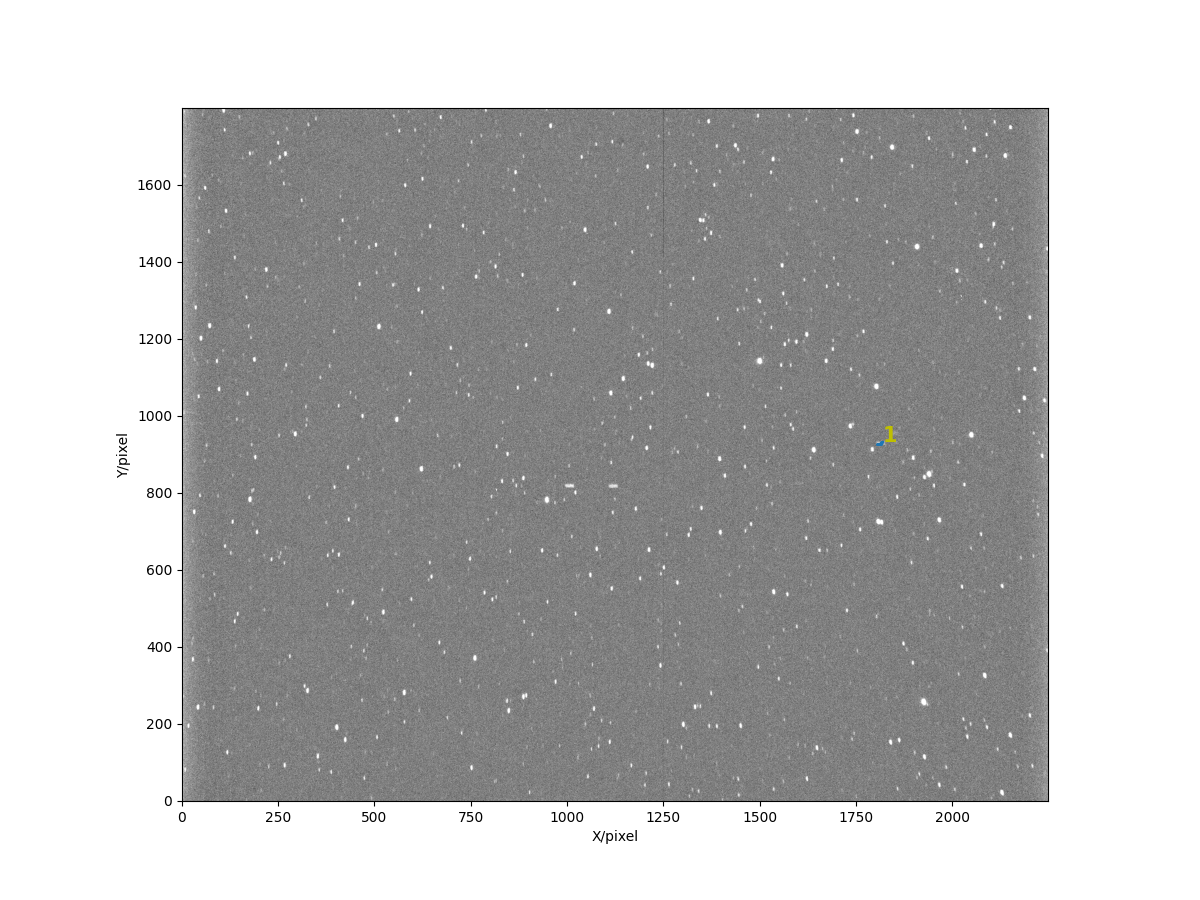
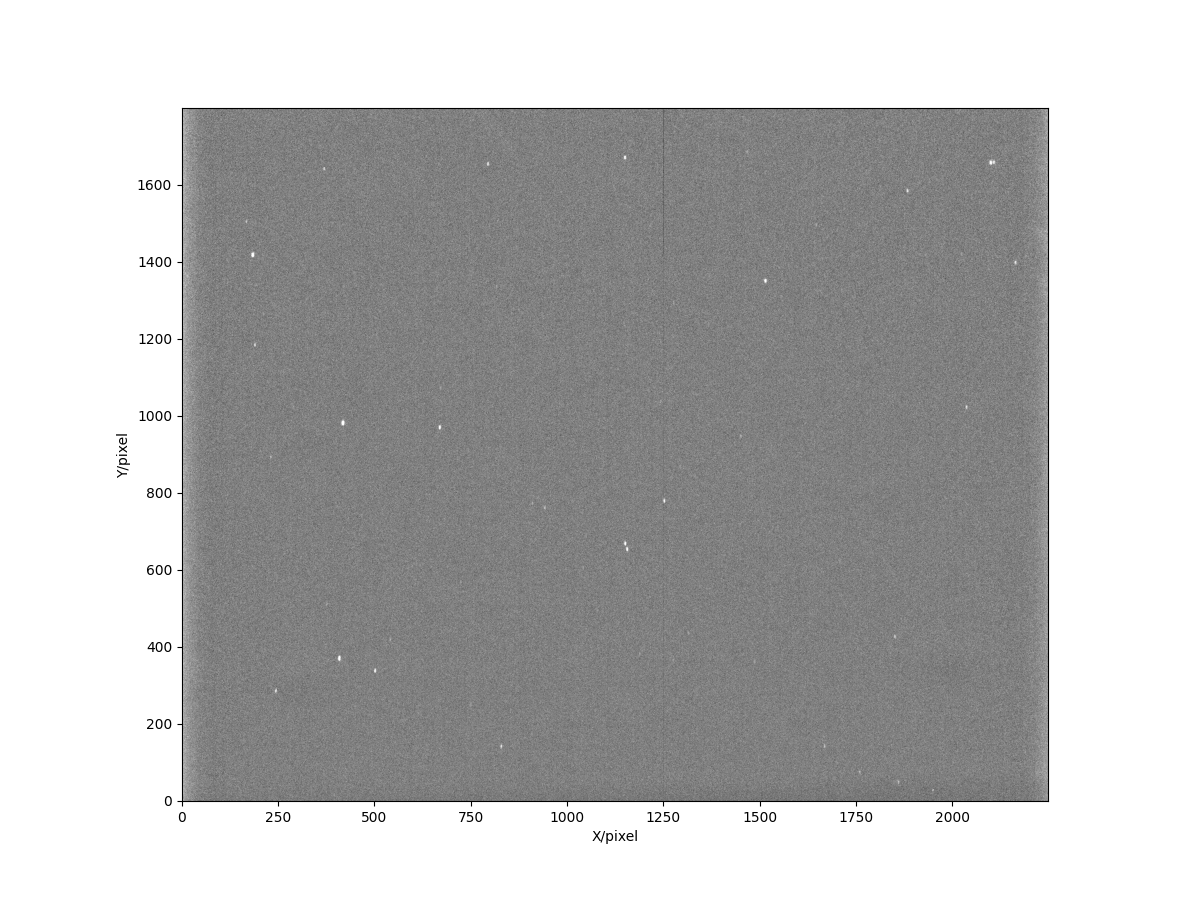
RMIT testing

diff --git a/astride/test/run.py b/astride/test/run.py
@@ -14,7 +14,7 @@ def test():
 
     module_path = dirname(__file__)
 
-    file_path = join(module_path, '../datasets/images', 'ROO_1.fits')
+    file_path = join(module_path, '../datasets/images', 'starlink1.fits')
     streak = Streak(file_path, output_path='./testoutput/')
 
    # file_path = join(module_path, '../datasets/samples', 'long.fits')
